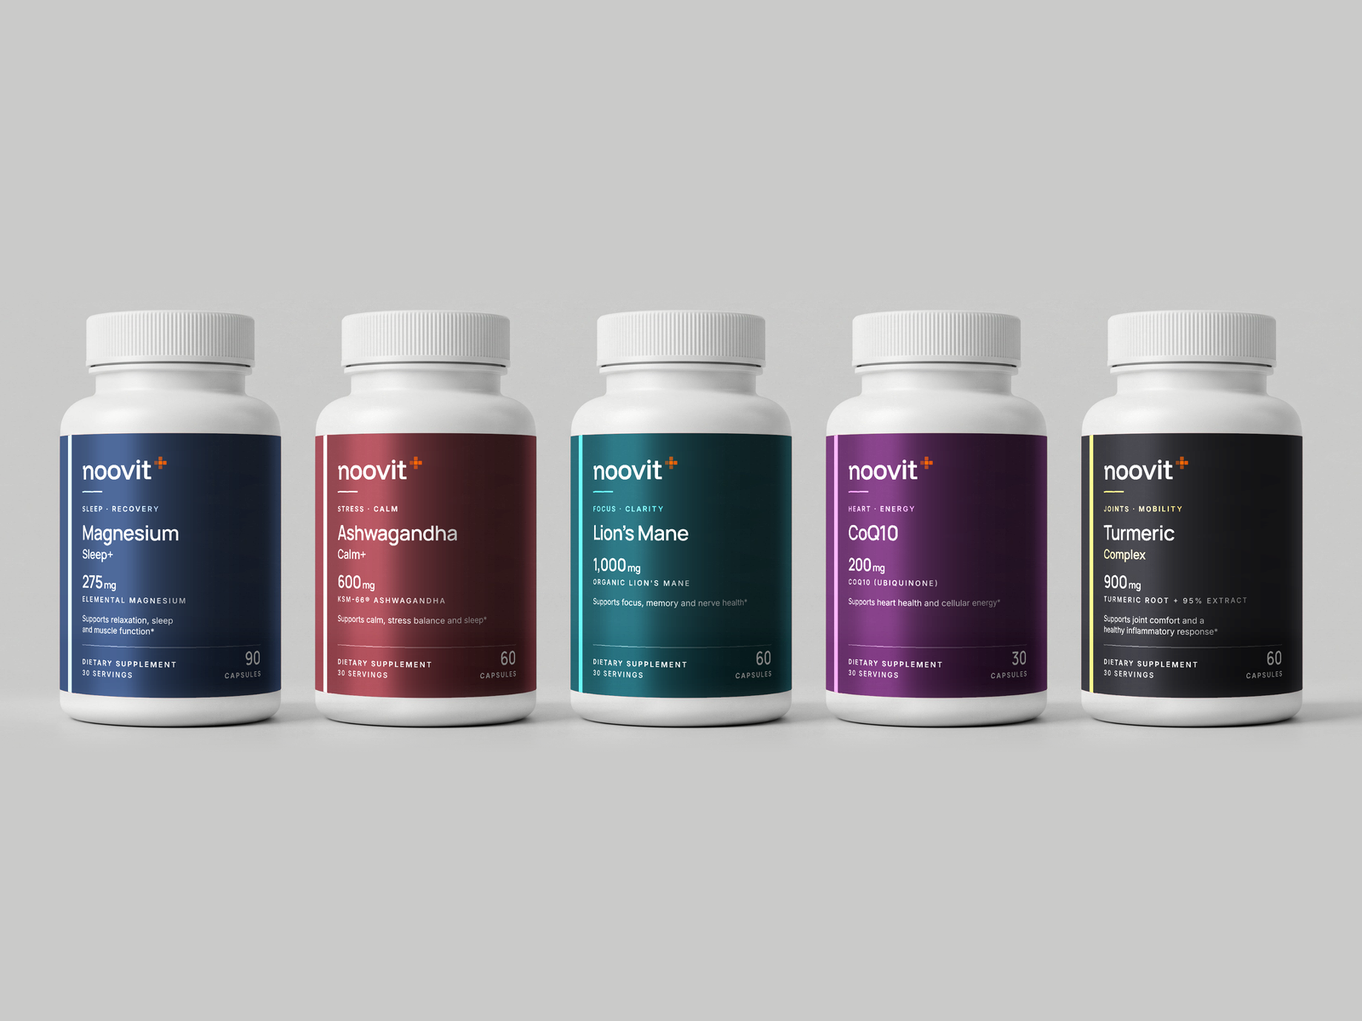
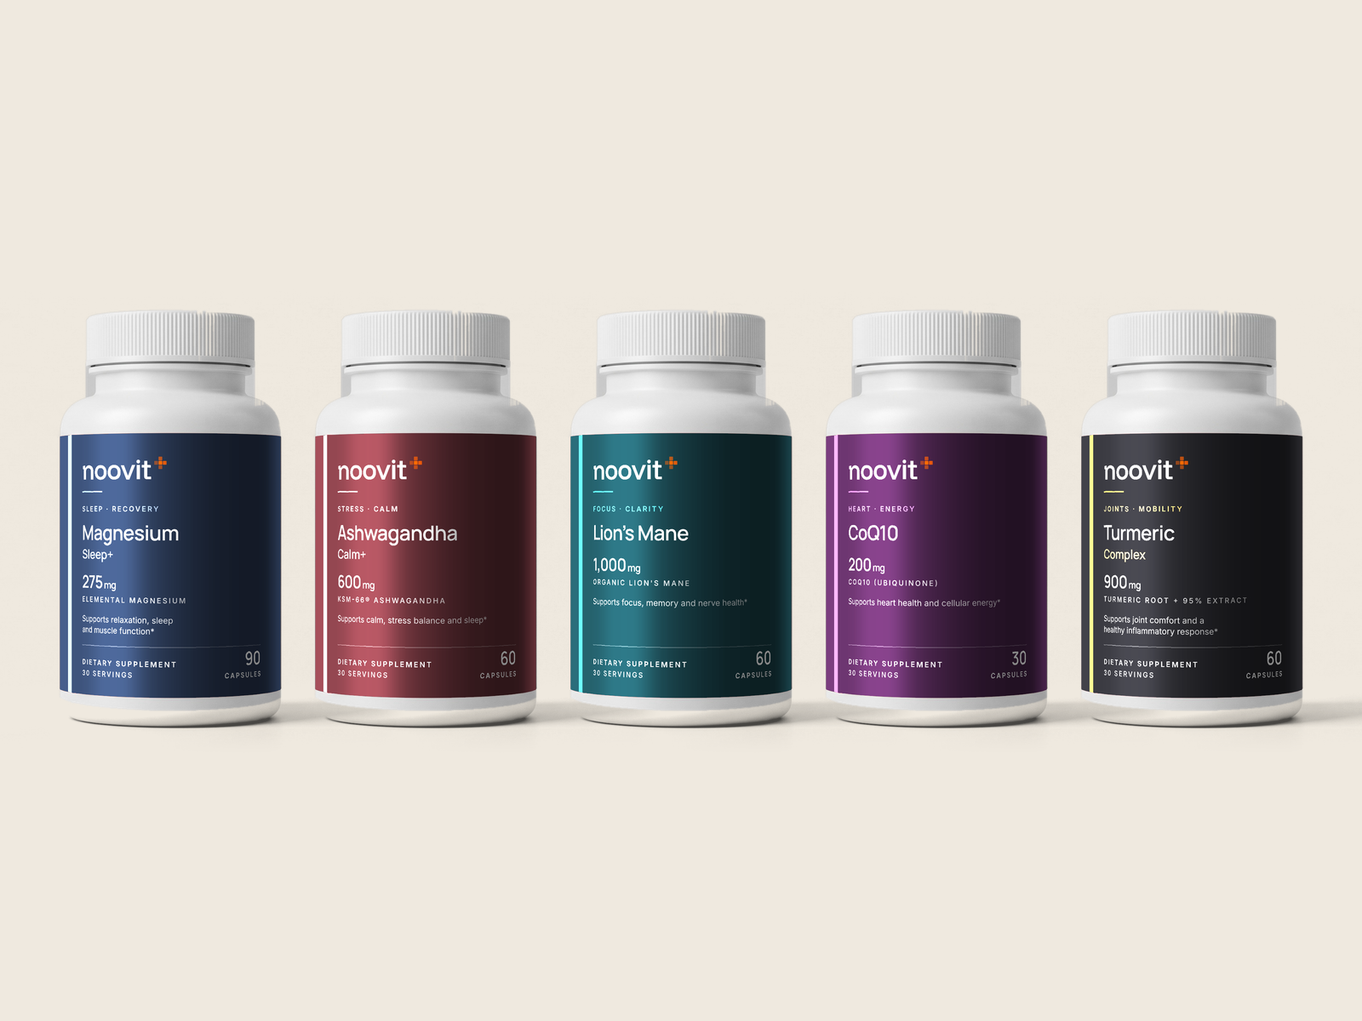
Cream/sage backdrops for product photos (mask compositing); sports photos incl. women; shorter images; restored trust, approach and community sections; blog test for heading anchors
Claude-Session: https://claude.ai/code/session_01AgHwmMXyw3TzvCrzNnVa8R

diff --git a/lib/labels/studio.ts b/lib/labels/studio.ts
@@ -24,7 +24,12 @@ type Template = {
   shadeX: Float32Array; shadeY: Float32Array; // lighting ratios
   pxPerUnit: number;
   plate: Float32Array; // the empty studio backdrop (RGB per pixel), estimated from the photo's clean left and right edges
+  mask: Float32Array; // 1 inside the bottle (cap, shoulders, body), soft at the edges; used to place it on any backdrop
 };
+
+// Site backdrop for product photos (17 Nov, owner: cream, not grey). Sage is the alternative accent.
+export const BACKDROP: [number, number, number] = [0xef, 0xe9, 0xdf]; // cream #EFE9DF (CSS --studio)
+export const SAGE: [number, number, number] = [0xd9, 0xe0, 0xd2]; // sage #D9E0D2
 let cached: Promise<Template> | null = null;
 
 const median = (a: number[]) => { const s = [...a].sort((p, q) => p - q); return s.length ? s[s.length >> 1] : 0; };
@@ -110,7 +115,34 @@ async function analyse(): Promise<Template> {
     for (let j = Math.max(0, y - 12); j <= Math.min(H - 1, y + 12); j++, nRows++) for (let k = 0; k < 9; k++) acc[k] += coef[j][k];
     for (let x = 0; x < W; x++) { const u = x / W; for (let c = 0; c < 3; c++) { const [A, B, C] = acc.slice(c * 3, c * 3 + 3).map((v) => v / nRows); plate[(y * W + x) * 3 + c] = A + B * u + C * u * u; } }
   }
-  return { W, H, data, x0, x1, cx, R, top, bot, shadeX, shadeY, pxPerUnit: (yBot - yTop) / FRONT.h, plate };
+  // Bottle mask, column by column: from the first row that differs from the backdrop (cap or shoulder) down to the
+  // base, which follows the label's bottom curve plus the label-to-base distance measured at the centre. Then
+  // softened by a small blur so the edge is anti-aliased.
+  const plum = (i: number) => 0.299 * plate[i] + 0.587 * plate[i + 1] + 0.114 * plate[i + 2];
+  const pix = (i: number) => 0.299 * data[i] + 0.587 * data[i + 1] + 0.114 * data[i + 2];
+  const cxi = Math.round(cx);
+  let baseC = Math.round(bot[cxi]);
+  for (let y = Math.round(bot[cxi]); y < Math.min(H - 1, bot[cxi] + H * 0.2); y++) { const i = (y * W + cxi) * 3; if (pix(i) > plum(i) + 10) baseC = y; }
+  const baseOffset = baseC - bot[cxi];
+  const hard = new Float32Array(W * H);
+  for (let x = Math.max(0, x0 - 6); x <= Math.min(W - 1, x1 + 6); x++) {
+    const xe = Math.min(x1, Math.max(x0, x));
+    let tp = -1;
+    for (let y = Math.round(H * 0.05); y < bot[xe]; y++) { const i = (y * W + x) * 3; if (Math.abs(pix(i) - plum(i)) > 16) { tp = y; break; } }
+    if (tp < 0) continue;
+    const bt = Math.round(bot[xe] + baseOffset * (0.55 + 0.45 * Math.sqrt(Math.max(0, 1 - ((x - cx) / R) ** 2))));
+    // columns just outside the label edge only count where the pixel really differs (the bottle's rounded side)
+    for (let y = tp; y <= Math.min(H - 1, bt); y++) {
+      if (x < x0 || x > x1) { const i = (y * W + x) * 3; if (Math.abs(pix(i) - plum(i)) <= 12) continue; }
+      hard[y * W + x] = 1;
+    }
+  }
+  const mask = new Float32Array(W * H);
+  const tmp = new Float32Array(W * H);
+  const rad = 2;
+  for (let y = 0; y < H; y++) for (let x = 0; x < W; x++) { let a = 0, n = 0; for (let d = -rad; d <= rad; d++) { const xx = x + d; if (xx >= 0 && xx < W) { a += hard[y * W + xx]; n++; } } tmp[y * W + x] = a / n; }
+  for (let y = 0; y < H; y++) for (let x = 0; x < W; x++) { let a = 0, n = 0; for (let d = -rad; d <= rad; d++) { const yy = y + d; if (yy >= 0 && yy < H) { a += tmp[yy * W + x]; n++; } } mask[y * W + x] = a / n; }
+  return { W, H, data, x0, x1, cx, R, top, bot, shadeX, shadeY, pxPerUnit: (yBot - yTop) / FRONT.h, plate, mask };
 }
 
 const fontFiles = () => {
@@ -165,9 +197,25 @@ export async function studioPhotoRaw(p: Product) {
   return { data: out, width: t.W, height: t.H, box: { x0: t.x0, x1: t.x1 } };
 }
 
-// Square product image (PNG). 'front': the whole bottle at ~85% of the height; 'closeup': the label, filling the frame.
-export async function studioPhotoPng(p: Product, size = 1000, crop: 'front' | 'closeup' = 'front') {
+// The labelled photo placed on any backdrop colour: the bottle keeps its true colours (mask), and the backdrop takes
+// the photo's shadow and soft light as a brightness ratio against the empty studio, so it looks photographed there.
+export async function studioOnBackdrop(p: Product, bg: [number, number, number] = BACKDROP) {
+  const t = await (cached ??= analyse());
   const r = await studioPhotoRaw(p);
+  const out = Buffer.alloc(r.data.length);
+  for (let k = 0, m = 0; k < r.data.length; k += 3, m++) {
+    const a = t.mask[m];
+    const lp = 0.299 * t.plate[k] + 0.587 * t.plate[k + 1] + 0.114 * t.plate[k + 2];
+    const li = 0.299 * r.data[k] + 0.587 * r.data[k + 1] + 0.114 * r.data[k + 2];
+    const shade = Math.max(0.3, Math.min(1, li / lp));
+    for (let c = 0; c < 3; c++) out[k + c] = Math.round(a * r.data[k + c] + (1 - a) * bg[c] * shade);
+  }
+  return { ...r, data: out };
+}
+
+// Square product image (PNG). 'front': the whole bottle at ~85% of the height; 'closeup': the label, filling the frame.
+export async function studioPhotoPng(p: Product, size = 1000, crop: 'front' | 'closeup' = 'front', bg: [number, number, number] = BACKDROP) {
+  const r = await studioOnBackdrop(p, bg);
   const t = await (cached ??= analyse());
   const cxp = (r.box.x0 + r.box.x1) / 2;
   const box =
@@ -181,39 +229,52 @@ export async function studioPhotoPng(p: Product, size = 1000, crop: 'front' | 'c
     .toBuffer();
 }
 
-// Group shot: several bottles on one shared backdrop, as if photographed together. Each bottle is taken as its
-// difference from the empty studio backdrop (bottle, label and soft shadow, no box), scaled into place, and the
-// differences are added onto a flat backdrop of colour `bg` — so neighbours' shadows overlap naturally and no tile
-// edges show. `size` is the side of each bottle's square crop (same framing as the single product photo), `step` the
-// distance between bottle centres. Returns a PNG of width × height.
+// Group shot: several bottles on one shared backdrop of colour `bg`, as if photographed together. Each bottle is
+// placed with its mask (true colours) and its shadow is applied to whatever is already on the canvas, so neighbours'
+// shadows overlap naturally and no tile edges show. `size` is each bottle's square crop (same framing as the product
+// photo), `step` the distance between bottle centres. Returns a PNG of width × height.
 export async function studioGroupPng(products: Product[], width: number, height: number, opts: { size: number; step: number; y: number; bg: [number, number, number] }) {
   const t = await (cached ??= analyse());
   const canvas = new Float32Array(width * height * 3);
   for (let i = 0; i < canvas.length; i++) canvas[i] = opts.bg[i % 3];
   const side = Math.round(t.H * 0.87), top = Math.round(t.H * 0.075);
   const x0 = width / 2 - ((products.length - 1) * opts.step) / 2 - opts.size / 2;
-  for (const [i, p] of products.entries()) {
-    const r = await studioPhotoRaw(p);
-    const left = Math.round((r.box.x0 + r.box.x1) / 2 - side / 2);
-    // Difference image (offset by 128 so it fits in 8 bits), cropped like the product photo and resized into place.
-    // Stored at half scale around 128 so the full range (a dark label is ~-200 against the backdrop) fits in 8 bits.
-    const diff = Buffer.alloc(t.W * t.H * 3);
-    for (let k = 0; k < diff.length; k++) diff[k] = Math.max(0, Math.min(255, Math.round((r.data[k] - t.plate[k]) / 2 + 128)));
-    const { data } = await sharp(diff, { raw: { width: t.W, height: t.H, channels: 3 } })
+  // Per bottle: the labelled photo, a mask (alpha) and the shadow ratio, packed as RGBA + a grey map, each cut to the
+  // product-photo framing and resized together (same pipeline, so they stay aligned).
+  const shadeFull = Buffer.alloc(t.W * t.H);
+  for (let m = 0, k = 0; m < t.W * t.H; m++, k += 3) {
+    const lp = 0.299 * t.plate[k] + 0.587 * t.plate[k + 1] + 0.114 * t.plate[k + 2];
+    const li = 0.299 * t.data[k] + 0.587 * t.data[k + 1] + 0.114 * t.data[k + 2];
+    shadeFull[m] = Math.round(Math.max(0.3, Math.min(1, li / lp)) * 255);
+  }
+  const resize = async (buf: Buffer, channels: 1 | 4, left: number) => {
+    const { data, info } = await sharp(buf, { raw: { width: t.W, height: t.H, channels } })
       .extract({ left: Math.max(0, left), top, width: side, height: side })
       .resize(opts.size, opts.size)
       .raw()
       .toBuffer({ resolveWithObject: true });
+    return { data, ch: info.channels };
+  };
+  for (const [i, p] of products.entries()) {
+    const r = await studioPhotoRaw(p);
+    const left = Math.round((r.box.x0 + r.box.x1) / 2 - side / 2);
+    const rgba = Buffer.alloc(t.W * t.H * 4);
+    for (let m = 0; m < t.W * t.H; m++) {
+      rgba[m * 4] = r.data[m * 3]; rgba[m * 4 + 1] = r.data[m * 3 + 1]; rgba[m * 4 + 2] = r.data[m * 3 + 2];
+      rgba[m * 4 + 3] = Math.round(t.mask[m] * 255);
+    }
+    const [px, sh] = await Promise.all([resize(rgba, 4, left), resize(shadeFull, 1, left)]);
     const ox = Math.round(x0 + i * opts.step), oy = Math.round(opts.y);
     for (let yy = 0; yy < opts.size; yy++) {
       const cy = oy + yy; if (cy < 0 || cy >= height) continue;
       for (let xx = 0; xx < opts.size; xx++) {
         const cx = ox + xx; if (cx < 0 || cx >= width) continue;
-        const si = (yy * opts.size + xx) * 3, di = (cy * width + cx) * 3;
-        // Taper the last 6% at each edge of the crop, so any leftover backdrop difference fades out instead of edging.
+        const m = yy * opts.size + xx, di = (cy * width + cx) * 3;
+        const a = px.data[m * px.ch + 3] / 255;
         const e = Math.min(xx, opts.size - 1 - xx, yy, opts.size - 1 - yy) / (opts.size * 0.06);
         const w = e >= 1 ? 1 : e * e * (3 - 2 * e);
-        for (let c = 0; c < 3; c++) canvas[di + c] += (data[si + c] - 128) * 2 * w;
+        const shade = 1 - (1 - sh.data[m * sh.ch] / 255) * w;
+        for (let c = 0; c < 3; c++) canvas[di + c] = a * px.data[m * px.ch + c] + (1 - a) * canvas[di + c] * shade;
       }
     }
   }
@@ -224,7 +285,5 @@ export async function studioGroupPng(products: Product[], width: number, height:
 
 // The backdrop colour behind the bottle in the product photo (mid-height), for pages that place group shots.
 export async function studioBackdrop(): Promise<[number, number, number]> {
-  const t = await (cached ??= analyse());
-  const i = (Math.round(t.H * 0.5) * t.W + 20) * 3;
-  return [Math.round(t.plate[i]), Math.round(t.plate[i + 1]), Math.round(t.plate[i + 2])];
+  return BACKDROP;
 }

diff --git a/app/(store)/page.tsx b/app/(store)/page.tsx
@@ -1,8 +1,10 @@
 import type { Metadata } from 'next';
 import Link from 'next/link';
-import { Check, ArrowRight, PawPrint } from 'lucide-react';
+import { Check, Microscope, Sprout, ArrowRight, ScanText, PawPrint } from 'lucide-react';
 import { BestSellers } from '@/components/home/BestSellers';
 import {
+  TrustSection,
+  CommunitySection,
   ReviewsSection,
   FAQSection,
   NewsletterSection,
@@ -48,8 +50,8 @@ const GOAL_TILES: { label: string; line: string; slug: string; href: string }[] 
 export const metadata: Metadata = { alternates: { canonical: '/' } };
 
 const FEATURED = [
-  { slug: 'lions-mane', bg: '#bbd5d7', eyebrow: 'Focus · Clarity', title: 'Lion’s Mane, 1,000 mg a day' },
-  { slug: 'magnesium-complex', bg: '#c5d0dd', eyebrow: 'Sleep · Recovery', title: '275 mg magnesium, as glycinate' },
+  { slug: 'lions-mane', bg: 'var(--sage)', eyebrow: 'Focus · Clarity', title: 'Lion’s Mane, 1,000 mg a day' },
+  { slug: 'magnesium-complex', bg: 'var(--studio)', eyebrow: 'Sleep · Recovery', title: '275 mg magnesium, as glycinate' },
 ];
 
 export default async function HomePage() {
@@ -85,7 +87,7 @@ export default async function HomePage() {
             </ul>
           </div>
           <Link href="/shop" aria-label="Shop the range" className="block">
-            <img src="/images/lineup-hero.png?v=1" alt="Noovit Magnesium Sleep+, Lion's Mane and Ashwagandha Calm+ bottles" className="w-full" fetchPriority="high" />
+            <img src="/images/lineup-hero.png?v=2" alt="Noovit Magnesium Sleep+, Lion's Mane and Ashwagandha Calm+ bottles" className="w-full" fetchPriority="high" />
           </Link>
         </div>
       </section>
@@ -134,7 +136,7 @@ export default async function HomePage() {
             if (!p || p.status === 'hidden') return null;
             return (
               <Link key={f.slug} href={`/products/${p.slug}`} className="group relative overflow-hidden rounded-[2rem]" style={{ background: f.bg }}>
-                <img src={`/images/feature-${f.slug}.png?v=1`} alt={`${p.name} bottle`} className="aspect-square w-full object-cover transition-transform duration-700 group-hover:scale-[1.03]" loading="lazy" />
+                <img src={`/images/feature-${f.slug}.png?v=2`} alt={`${p.name} bottle`} className="aspect-square w-full object-cover transition-transform duration-700 group-hover:scale-[1.03]" loading="lazy" />
                 <div className="absolute inset-x-0 top-0 p-8 md:p-10">
                   <p className="text-xs font-semibold uppercase tracking-[0.2em] text-[var(--color-navy)]/70">{f.eyebrow}</p>
                   <h3 className="mt-2 max-w-xs text-3xl text-[var(--color-navy)] md:text-4xl">{f.title}</h3>
@@ -171,6 +173,8 @@ export default async function HomePage() {
 
       <BestSellers products={products} />
 
+      <TrustSection />
+
 
       {/* AI advisor promo */}
       {ask && (
@@ -196,7 +200,7 @@ export default async function HomePage() {
       {/* Quiz: lifestyle split (Thorne's "science is personal" pattern) */}
       <section className="section">
         <div className="container grid items-center gap-10 px-6 md:grid-cols-2 md:gap-16">
-          <img src={IMAGES.run} srcSet={unsplashSrcSet(IMAGES.run)} sizes="(min-width: 768px) 50vw, 100vw" alt="A man running outdoors" className="aspect-[4/5] w-full rounded-3xl object-cover md:aspect-[4/4.4]" loading="lazy" />
+          <img src={IMAGES.womanRun} srcSet={unsplashSrcSet(IMAGES.womanRun)} sizes="(min-width: 768px) 50vw, 100vw" alt="A woman running by a river in winter" className="aspect-[4/3] w-full rounded-3xl object-cover" loading="lazy" />
           <div>
             <p className="mb-3 text-xs font-semibold uppercase tracking-[0.2em] text-[var(--color-muted)]">Not sure where to start?</p>
             <h2 className="text-4xl md:text-5xl">Built around your goals.</h2>
@@ -243,8 +247,45 @@ export default async function HomePage() {
         </section>
       )}
 
+      {/* Approach */}
+      <section className="section">
+        <div className="container grid items-center gap-12 px-6 md:grid-cols-2">
+          <img src={IMAGES.womanLift} srcSet={unsplashSrcSet(IMAGES.womanLift)} sizes="(min-width: 768px) 50vw, 100vw" alt="A woman lifting a barbell in a gym" className="aspect-[16/11] w-full rounded-3xl object-cover" loading="lazy" />
+          <div>
+            <SectionHeading eyebrow="Our approach" title="Evidence-led, and honest about it" center={false} />
+            <div className="space-y-6">
+              <div className="flex gap-4">
+                <Microscope className="h-8 w-8 shrink-0 text-[var(--color-accent)]" />
+                <div>
+                  <h3 className="text-lg">The dose on the front</h3>
+                  <p className="text-[var(--color-muted)]">The amount per serving is printed big on every bottle, and our guides compare it with what studies used.</p>
+                </div>
+              </div>
+              <div className="flex gap-4">
+                <Sprout className="h-8 w-8 shrink-0 text-[var(--color-accent)]" />
+                <div>
+                  <h3 className="text-lg">Evidence, graded honestly</h3>
+                  <p className="text-[var(--color-muted)]">Every ingredient has a guide with its studies, including the ones that found nothing.</p>
+                </div>
+              </div>
+              <div className="flex gap-4">
+                <ScanText className="h-8 w-8 shrink-0 text-[var(--color-accent)]" strokeWidth={1.5} />
+                <div>
+                  <h3 className="text-lg">Labels you can read</h3>
+                  <p className="text-[var(--color-muted)]">Every ingredient and amount listed, the key dose on the front, and no proprietary blends.</p>
+                </div>
+              </div>
+            </div>
+            <Link href="/about" className="mt-8 inline-flex items-center gap-1 font-bold text-[var(--color-accent)]">
+              More about our approach <ArrowRight className="h-4 w-4" />
+            </Link>
+          </div>
+        </div>
+      </section>
+
       <ReviewsSection reviews={reviews} placeholder={reviewPlaceholder} />
       <FAQSection faqs={GENERAL_FAQS.slice(0, 5)} />
+      <CommunitySection />
       <NewsletterSection />
       <SubscriptionPerks />
 

diff --git a/data/content.ts b/data/content.ts
@@ -6,18 +6,24 @@ export const IMAGES = {
   // Sports lifestyle (Unsplash License, free): sprinter by Jorge Alberto Vega Barrera; runner by Sherise Van Dyk.
   sport: 'https://images.unsplash.com/photo-1744060204728-f68e434a3edf?w=1200&q=80&fit=crop',
   run: 'https://images.unsplash.com/photo-1560073742-bc295f81c3c0?w=1200&q=80&fit=crop',
+  // More sports photos, Unsplash License: Cristian Londono (barbell), Land O'Lakes Inc. (gym, track), Ryan Fleischer (winter run).
+  womanLift: 'https://images.unsplash.com/photo-1639660299469-9e9279364c97?w=1200&q=80&fit=crop',
+  womanGym: 'https://images.unsplash.com/photo-1761839258420-5c3e2f2e2a74?w=1200&q=80&fit=crop',
+  womanRun: 'https://images.unsplash.com/photo-1765250251997-daf44e3c0268?w=1200&q=80&fit=crop',
+  track: 'https://images.unsplash.com/photo-1761839257789-20147513121a?w=1200&q=80&fit=crop',
   hero: 'https://images.unsplash.com/photo-1552196563-55cd4e45efb3?w=1920&q=80&fit=crop',
   approach: 'https://images.unsplash.com/photo-1540420773420-3366772f4999?w=1200&q=80&fit=crop',
   nutrition: 'https://images.unsplash.com/photo-1490645935967-10de6ba17061?w=800&q=80&fit=crop',
   savings: 'https://images.unsplash.com/photo-1498837167922-ddd27525d352?w=800&q=80&fit=crop',
   support: 'https://images.unsplash.com/photo-1506126613408-eca07ce68773?w=800&q=80&fit=crop',
   results: 'https://images.unsplash.com/photo-1517836357463-d25dfeac3438?w=800&q=80&fit=crop',
+  // Sports people, women and men (all Unsplash License, see above).
   community: [
-    'https://images.unsplash.com/photo-1518611012118-696072aa579a?w=600&h=900&q=80&fit=crop',
-    'https://images.unsplash.com/photo-1571019613454-1cb2f99b2d8b?w=600&h=900&q=80&fit=crop',
-    'https://images.unsplash.com/photo-1544367567-0f2fcb009e0b?w=600&h=900&q=80&fit=crop',
-    'https://images.unsplash.com/photo-1499209974431-9dddcece7f88?w=600&h=900&q=80&fit=crop',
-    'https://images.unsplash.com/photo-1517836357463-d25dfeac3438?w=600&h=900&q=80&fit=crop',
+    'https://images.unsplash.com/photo-1639660299469-9e9279364c97?w=600&h=600&q=80&fit=crop',
+    'https://images.unsplash.com/photo-1560073742-bc295f81c3c0?w=600&h=600&q=80&fit=crop',
+    'https://images.unsplash.com/photo-1765250251997-daf44e3c0268?w=600&h=600&q=80&fit=crop',
+    'https://images.unsplash.com/photo-1744060204728-f68e434a3edf?w=600&h=600&q=80&fit=crop',
+    'https://images.unsplash.com/photo-1761839258420-5c3e2f2e2a74?w=600&h=600&q=80&fit=crop',
   ],
 };
 

diff --git a/lib/labels/svg.ts b/lib/labels/svg.ts
@@ -15,7 +15,7 @@ import { LEGAL_NAME } from '@/lib/site';
 export type FontMode = 'web' | 'print';
 
 // Bump when the photo mockup (lib/labels/photo.ts) changes, so cached product image URLs refresh.
-export const MOCKUP_VERSION = 'studio-v5'; // studio-v1 (16 Nov): photoreal studio bottle (lib/labels/studio.ts); was photo-v14 // v12 (14 Nov): elegant dark label; v13: studio lighting; v14: label edges curve round the bottle
+export const MOCKUP_VERSION = 'studio-v6'; // v6 (17 Nov): cream backdrop // studio-v1 (16 Nov): photoreal studio bottle (lib/labels/studio.ts); was photo-v14 // v12 (14 Nov): elegant dark label; v13: studio lighting; v14: label edges curve round the bottle
 
 const NAVY = '#14213d';
 const INK = '#4b5563';
@@ -1039,9 +1039,9 @@ export function bottle(p: Product, mode: FontMode, uid: string, pattern: LabelPa
 }
 
 // Cream scene with a soft floor line.
-// Drawn bottles and tubs sit on the same grey as the studio photos (17 Nov), so the shop grid matches.
+// Drawn bottles and tubs sit on the same cream as the studio photos (17 Nov), so the shop grid matches.
 export function scene(uid: string) {
-  return `<defs><radialGradient id="bg-${uid}" cx="0.5" cy="0.42" r="0.75"><stop offset="0" stop-color="#d2d2d0"/><stop offset="1" stop-color="#c4c4c2"/></radialGradient></defs><rect width="400" height="400" fill="url(#bg-${uid})"/>`;
+  return `<defs><radialGradient id="bg-${uid}" cx="0.5" cy="0.42" r="0.75"><stop offset="0" stop-color="#f3eee5"/><stop offset="1" stop-color="#ebe4d8"/></radialGradient></defs><rect width="400" height="400" fill="url(#bg-${uid})"/>`;
 }
 
 // Square 400×400 image. `uid` keeps gradient/clip ids unique when several images share a page.

diff --git a/scripts/site-images.ts b/scripts/site-images.ts
@@ -5,7 +5,7 @@
 import { writeFileSync } from 'fs';
 import sharp from 'sharp';
 import { SEED_PRODUCTS } from '@/data/products';
-import { studioGroupPng, studioBackdrop } from '@/lib/labels/studio';
+import { studioGroupPng, studioBackdrop, BACKDROP, SAGE } from '@/lib/labels/studio';
 
 const P = (s: string) => SEED_PRODUCTS.find((p) => p.slug === s)!;
 (async () => {
@@ -18,10 +18,9 @@ const P = (s: string) => SEED_PRODUCTS.find((p) => p.slug === s)!;
   const hero = await studioGroupPng(['magnesium-complex', 'lions-mane', 'ashwagandha'].map(P), 1500, 1200, { size: 860, step: 470, y: 230, bg });
   writeFileSync('public/images/lineup-hero.png', hero);
   // Featured products on a soft tint of their own label colour (FourFive-style), for the homepage feature cards.
-  const tint = (hex: string, k: number) => (hex.match(/\w\w/g) ?? []).map((h) => Math.round(255 - (255 - parseInt(h, 16)) * k)) as [number, number, number];
-  for (const slug of ['lions-mane', 'magnesium-complex']) {
-    const t = tint(P(slug).color, 0.32);
-    writeFileSync(`public/images/feature-${slug}.png`, await studioGroupPng([P(slug)], 1200, 1200, { size: 1100, step: 0, y: 60, bg: t }));
+  // Cards alternate cream and sage (owner, 17 Nov).
+  for (const [slug, t] of [['lions-mane', SAGE], ['magnesium-complex', BACKDROP]] as const) {
+    writeFileSync(`public/images/feature-${slug}.png`, await studioGroupPng([P(slug)], 1200, 1200, { size: 1100, step: 0, y: 60, bg: [...t] as [number, number, number] }));
     console.log('feature', slug, '#' + t.map((v) => v.toString(16).padStart(2, '0')).join(''));
   }
   console.log('backdrop', '#' + bg.map((v) => v.toString(16).padStart(2, '0')).join(''));

diff --git a/components/sections/Sections.tsx b/components/sections/Sections.tsx
@@ -152,7 +152,7 @@ export function CommunitySection({
         <SectionHeading eyebrow={handle} title={title} sub="Tag us to be featured." />
         <div className="no-scrollbar -mx-6 flex snap-x gap-4 overflow-x-auto px-6">
           {images.map((src, i) => (
-            <div key={i} className="aspect-[2/3] w-56 shrink-0 snap-start overflow-hidden rounded-2xl md:w-auto md:flex-1">
+            <div key={i} className="aspect-square w-44 shrink-0 snap-start overflow-hidden rounded-2xl md:w-auto md:flex-1">
               <img src={src} alt="" className="h-full w-full object-cover" loading="lazy" />
             </div>
           ))}

diff --git a/components/faq/FaqBrowser.tsx b/components/faq/FaqBrowser.tsx
@@ -58,7 +58,7 @@ export function FaqBrowser({ products }: { products: Product[] }) {
               <h2 className="text-3xl text-white md:text-4xl">Small daily habits, big long-term results.</h2>
               <Link href="/shop" className="btn mt-6 bg-white text-[var(--color-navy)]">Shop Now</Link>
             </div>
-            <img src="/images/lineup-5.png?v=1" alt="" className="h-full w-full bg-[var(--studio)] object-cover" />
+            <img src="/images/lineup-5.png?v=2" alt="" className="h-full w-full bg-[var(--studio)] object-cover" />
           </div>
         </div>
       </section>

diff --git a/app/(store)/about/page.tsx b/app/(store)/about/page.tsx
@@ -48,7 +48,7 @@ export default async function AboutPage() {
               <p>The result is a focused range of supplements with clear labels, honest claims and a 90-day guarantee behind them.</p>
             </div>
           </div>
-          <img src="/images/lineup-5.png?v=1" alt="The Noovit core range" className="aspect-[4/3] w-full rounded-3xl bg-[var(--studio)] object-cover" />
+          <img src="/images/lineup-5.png?v=2" alt="The Noovit core range" className="aspect-[4/3] w-full rounded-3xl bg-[var(--studio)] object-cover" />
         </div>
       </section>
 

diff --git a/app/globals.css b/app/globals.css
@@ -13,7 +13,8 @@
   /* Warm off-white canvas (The Absorption Company direction): page, soft panels, hairlines. */
   --color-canvas: #ffffff; /* Thorne-like clean white (3 Nov) */
   --color-soft: #f4f4f2;
-  --studio: #cacac9; /* backdrop of the studio bottle photos (scripts/site-images.ts prints it) */
+  --studio: #efe9df; /* cream backdrop of the studio bottle photos (BACKDROP in lib/labels/studio.ts) */
+  --sage: #d9e0d2; /* sage accent (SAGE) */
   --color-line: #e7e6e2;
   --color-muted: #5b6472;
   --color-orange: #ff5f00;
